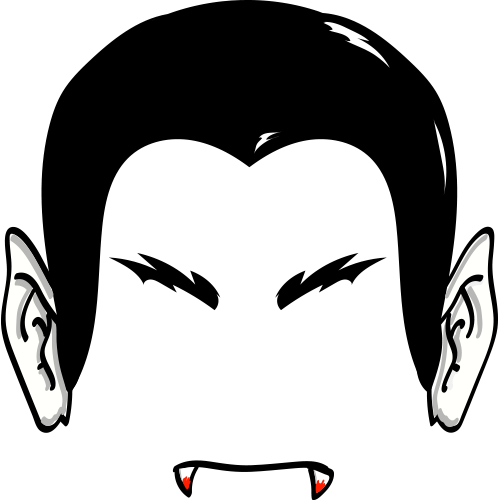
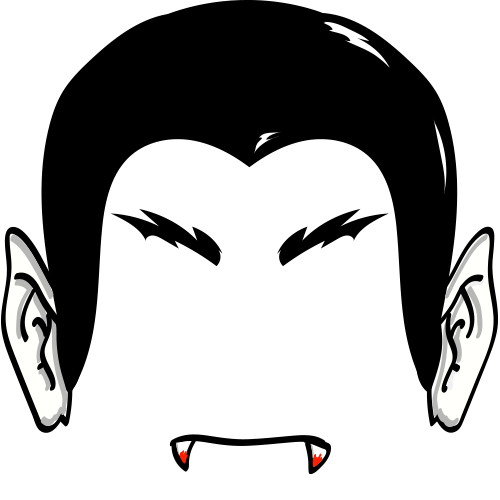
adjusting mask positions

Changed region(s): [[0.33, 0.87, 0.69, 1.0], [0.54, 0.42, 0.78, 0.63], [0.21, 0.42, 0.45, 0.63]]

diff --git a/js/tracker.js b/js/tracker.js
@@ -47,7 +47,7 @@
 			"xpos":".3","ypos":"1.25","imgwidth":"1.64","imgheight":"1.64"
 		}],
 		"dracula":[{
-				"xpos":".05","ypos":".33","imgwidth":"1.15","imgheight":"1.15"
+				"xpos":".05","ypos":".25","imgwidth":"1.15","imgheight":"1.15"
 		}],
 		"wolfman":[{
 				"xpos":".07","ypos":".3","imgwidth":"1.175","imgheight":"1.175"
@@ -56,13 +56,13 @@
 				"xpos":".15","ypos":".45","imgwidth":"1.32","imgheight":"1.32"
 		}],
 		"womans_hat":[{
-				"xpos":".19","ypos":".25","imgwidth":"1.45","imgheight":"1.5"
+				"xpos":"-.3","ypos":".65","imgwidth":".75","imgheight":"1.1"
 		}],
 		"mummy":[{
-				"xpos":".19","ypos":".25","imgwidth":"1.45","imgheight":"1.5"
+				"xpos":".35","ypos":".25","imgwidth":"1.45","imgheight":"1.45"
 		}],
 		"witch":[{
-				"xpos":".19","ypos":".25","imgwidth":"1.45","imgheight":"1.5"
+				"xpos":".42","ypos":".85","imgwidth":"1.9","imgheight":"1.9"
 		}],
 		"frankenstein":[{
 				"xpos":".19","ypos":".25","imgwidth":"1.45","imgheight":"1.5"
